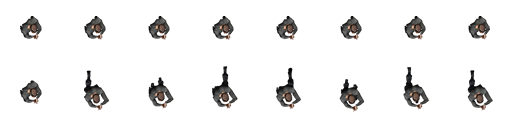
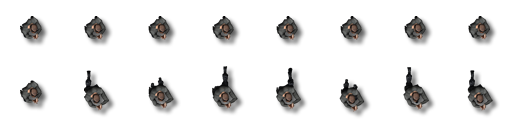
Added gun pistol. Todo: Add shooting of gun.

diff --git a/Horde/SOGI/SOGITypes.h b/Horde/SOGI/SOGITypes.h
@@ -34,34 +34,48 @@ public:
                         TVector()
                         {
                             m_size = size;
+							for (int valueIndex = 0; valueIndex < size; ++valueIndex)
+								m_values[valueIndex] = NULL;
                         }
 
                         //! Get the x element of the vector
     T                   x() const
                         {
                             //ASSERT(this->m_size >= (EX+1), "Trying to access vector element greater than the size of the vector");
-                            return m_values[EX];
+							if (this->m_size >= (EX+1))
+								return m_values[EX];
+							else
+								return NULL;
                         }
 
                         //! Get the y element of the vector
     T                   y() const
                         {
                             //ASSERT(this->m_size >= (EY+1), "Trying to access vector element greater than the size of the vector");
-                            return m_values[EY];
+							if (this->m_size >= (EY+1))
+								return m_values[EY];
+							else
+								return NULL;
                         }
 
                         //! Get the z element of the vector
     T                   z() const
                         {
                             //ASSERT(this->m_size >= (EZ+1), "Trying to access vector element greater than the size of the vector");
-                            return m_values[EZ];
+							if (this->m_size >= (EZ+1))
+								return m_values[EZ];
+							else
+								return NULL;
                         }
 
                         //! Get the w element of the vector
     T                   w() const
                         {
                             //ASSERT(this->m_size >= (EW+1), "Trying to access vector element greater than the size of the vector");
-                            return m_values[EW];
+							if (this->m_size >= (EW+1))
+								return m_values[EW];
+							else
+								return NULL;
                         }
 
                         //! Equals operator

diff --git a/Horde/lasagne/lasagne-entity.h b/Horde/lasagne/lasagne-entity.h
@@ -33,14 +33,14 @@ public:
                             //!
                             CLasagneEntity(
                                 const char* imagePath,
-                                const TVector<int, 2> screenSize
+                                const TVector<int, 2> &screenSize
                             );
 
                             //!
                             CLasagneEntity(
                                 const char* imagePath,
-                                const TVector<int, 2> screenSize,
-                                const TVector<int, 2> noofFrames
+                                const TVector<int, 2> &screenSize,
+                                const TVector<int, 2> &noofFrames
                             );
 
                             //!
@@ -82,6 +82,12 @@ public:
     void                    SetCurrentAnimation(
                                 char *animation
                             );
+
+							//! 
+	SDL_Surface				*GetImage() const
+							{
+								return m_image;
+							}
 
 };
 

diff --git a/Horde/Horde/player.cpp b/Horde/Horde/player.cpp
@@ -9,7 +9,7 @@ CPlayer::CPlayer() :
 
 CPlayer::~CPlayer()
 {
-
+	SafeDelete(m_gun);
 }
 
 const bool CPlayer::Load(
@@ -28,5 +28,30 @@ const bool CPlayer::Load(
     m_entity->AddAnimation("walk", 10, 16);
     m_entity->SetCurrentAnimation("walk");
 
+	m_gun = new CGunPistol();
+	m_gun->Create();
+
+	CLasagneEntity *const gun = m_gun->GetEntity();
+	gun->SetPosition(132, 96);
+	gun->AddAnimation("idle", 0, 9);
+	gun->AddAnimation("walk", 10, 16);
+	gun->SetCurrentAnimation("walk");
+
     return true;
+}
+
+void CPlayer::SetRotation( 
+		const int alpha 
+	)
+{
+	m_entity->SetRotation(alpha);
+	m_gun->GetEntity()->SetRotation(alpha);
+}
+
+void CPlayer::SetCurrentAnimation( 
+		char *animation 
+	)
+{
+	m_entity->SetCurrentAnimation(animation);
+	m_gun->GetEntity()->SetCurrentAnimation(animation);
 }

diff --git a/Horde/Horde/guns/gunbase.h b/Horde/Horde/guns/gunbase.h
@@ -3,24 +3,33 @@
 
 #include <vector>
 #include "bulletbase.h"
+#include "../../lasagne/lasagne.h"
 
 class CGunBase {
 protected:
 
-	std::vector<CBulletBase>		m_bullet;
+	std::vector<CBulletBase*>		m_bullet;					//!< 
+	unsigned int					m_nextBullet;				//!< 
+
+	CLasagneEntity                  *m_entity;					//!<
 
 public:
 									//!
-									CGunBase() {};
+									CGunBase();
 
 									//!
-									~CGunBase() {};
+									~CGunBase();
+
+	CLasagneEntity					*GetEntity() const 
+									{
+										return m_entity;
+									}
+
+									//! 
+	virtual void					Create() = 0;
 
 									//!
     virtual void					Shoot();
-
-									//!
-    virtual void					Render();
 
 };
 

diff --git a/Horde/lasagne/lasagne.cpp b/Horde/lasagne/lasagne.cpp
@@ -258,6 +258,12 @@ CLasagneEntity *CLasagne::LoadImage(
     )
 {
     CLasagneEntity *entity = new CLasagneEntity(imageFile, m_screenSize);
+	if (entity->GetImage() == NULL)
+	{
+		SafeDelete(entity);
+		return NULL;
+	}
+
     m_entity.push_back(entity);
     return entity;
 }
@@ -265,7 +271,7 @@ CLasagneEntity *CLasagne::LoadImage(
 //! Load an animated image
 CLasagneEntity *CLasagne::LoadAnimatedImage(
         const char* imageFile,                       //!<
-        const TVector<int, 2> noofFrames             //!<
+        const TVector<int, 2> &noofFrames             //!<
     )
 {
     CLasagneEntity *entity = new CLasagneEntity(imageFile, m_screenSize, noofFrames);

diff --git a/Horde/Horde/guns/gunpistol.cpp b/Horde/Horde/guns/gunpistol.cpp
@@ -1,1 +1,34 @@
 #include "gunpistol.h"
+
+CGunPistol::CGunPistol()
+{
+
+}
+
+CGunPistol::~CGunPistol()
+{
+
+}
+
+void CGunPistol::Create()
+{
+	TVector<int, 2> frameLayout;
+	frameLayout.Set(8, 2);
+	m_entity = CLasagne::GetInstance()->LoadAnimatedImage("./media/graphics/characters/guns/pistol/gun.png", frameLayout);
+	if (!m_entity)
+		return;
+
+	static const int NoofBullets = 16;
+	for (int bulletIndex = 0; bulletIndex < NoofBullets; ++bulletIndex)
+	{
+		CBulletBase *bulletBase = new CBulletPistol();
+		bulletBase->Create();
+		m_bullet.push_back(bulletBase);
+	}
+
+}
+
+void CGunPistol::Shoot()
+{
+
+}

diff --git a/Horde/main.cpp b/Horde/main.cpp
@@ -50,13 +50,13 @@ int main (int argc, char *argv[])
                     rotation += 180;
                 }
 
-                player->GetEntity()->SetRotation(rotation);
+                player->SetRotation(rotation);
             }
 
-            player->GetEntity()->SetCurrentAnimation("walk");
+            player->SetCurrentAnimation("walk");
             if (!currentScene->Move(moveX, moveY))
             {
-                player->GetEntity()->SetCurrentAnimation("idle");
+                player->SetCurrentAnimation("idle");
             }
 
             updateTimer = SDL_GetTicks();

diff --git a/Horde/Horde/player.h b/Horde/Horde/player.h
@@ -2,7 +2,10 @@
 #define PLAYER_H_INCLUDED
 
 #include "../lasagne/lasagne.h"
+
 #include "guns/gunbase.h"
+#include "guns/gunpistol.h"
+
 #include <map>
 
 class CPlayer {
@@ -10,7 +13,6 @@ class CPlayer {
 private:
 
     CLasagneEntity                          *m_entity;
-
 	CGunBase								*m_gun;
 
 public:
@@ -31,6 +33,14 @@ public:
                             {
                                 return m_entity;
                             }
+
+	void					SetRotation(
+								const int alpha
+							);
+
+	void					SetCurrentAnimation(
+								char *animation
+							);
 
 };
 

diff --git a/Horde/Horde/guns/bulletbase.h b/Horde/Horde/guns/bulletbase.h
@@ -1,9 +1,13 @@
 #ifndef BULLETBASE_H_INCLUDED
 #define BULLETBASE_H_INCLUDED
 
+#include "../../lasagne/lasagne.h"
+
 class CBulletBase {
 
 protected:
+
+	CLasagneEntity			*m_enity;				//!< 
 
 public:
 							//! 
@@ -13,12 +17,15 @@ public:
 							~CBulletBase();
 
 							//! 
+	virtual void			Create() = 0;
+
+							//! 
 	virtual bool			CheckCollision(
-		
+								CLasagneEntity *other
 							);
 
 							//!
-	virtual void			Render();
+	virtual void			Fire();
 
 };
 

diff --git a/Horde/Horde/guns/bulletpistol.h b/Horde/Horde/guns/bulletpistol.h
@@ -1,0 +1,27 @@
+#ifndef BULLETPISTOL_H_INCLUDED
+#define BULLETPISTOL_H_INCLUDED
+
+#include "bulletbase.h"
+
+class CBulletPistol : public CBulletBase 
+{
+public:
+							//! 
+							CBulletPistol();
+
+							//! 
+							~CBulletPistol();
+
+							//! 
+	virtual void			Create();
+
+							//! 
+	virtual bool			CheckCollision(
+								CLasagneEntity *other
+							);
+
+							//!
+	virtual void			Fire();
+};
+
+#endif

diff --git a/Horde/Horde/guns/bulletpistol.cpp b/Horde/Horde/guns/bulletpistol.cpp
@@ -1,0 +1,29 @@
+#include "bulletpistol.h"
+
+
+CBulletPistol::CBulletPistol()
+{
+
+}
+
+CBulletPistol::~CBulletPistol()
+{
+
+}
+
+void CBulletPistol::Create()
+{
+	m_enity = CLasagne::GetInstance()->LoadImage("./media/graphics/characters/guns/pistol/bullet.png");
+}
+
+bool CBulletPistol::CheckCollision( 
+		CLasagneEntity *other 
+	)
+{
+	return false;
+}
+
+void CBulletPistol::Fire()
+{
+
+}

diff --git a/Horde/Horde/guns/gunpistol.h b/Horde/Horde/guns/gunpistol.h
@@ -2,10 +2,22 @@
 #define GUNPISTOL_H_INCLUDED
 
 #include "gunbase.h"
+#include "bulletpistol.h"
 
 class CGunPistol : public CGunBase
 {
+public:
+									//!
+									CGunPistol();
 
+									//!
+									~CGunPistol();
+
+									//! 
+	virtual void					Create();
+
+									//!
+    virtual void					Shoot();
 };
 
 #endif // GUNPISTOL_H_INCLUDED
